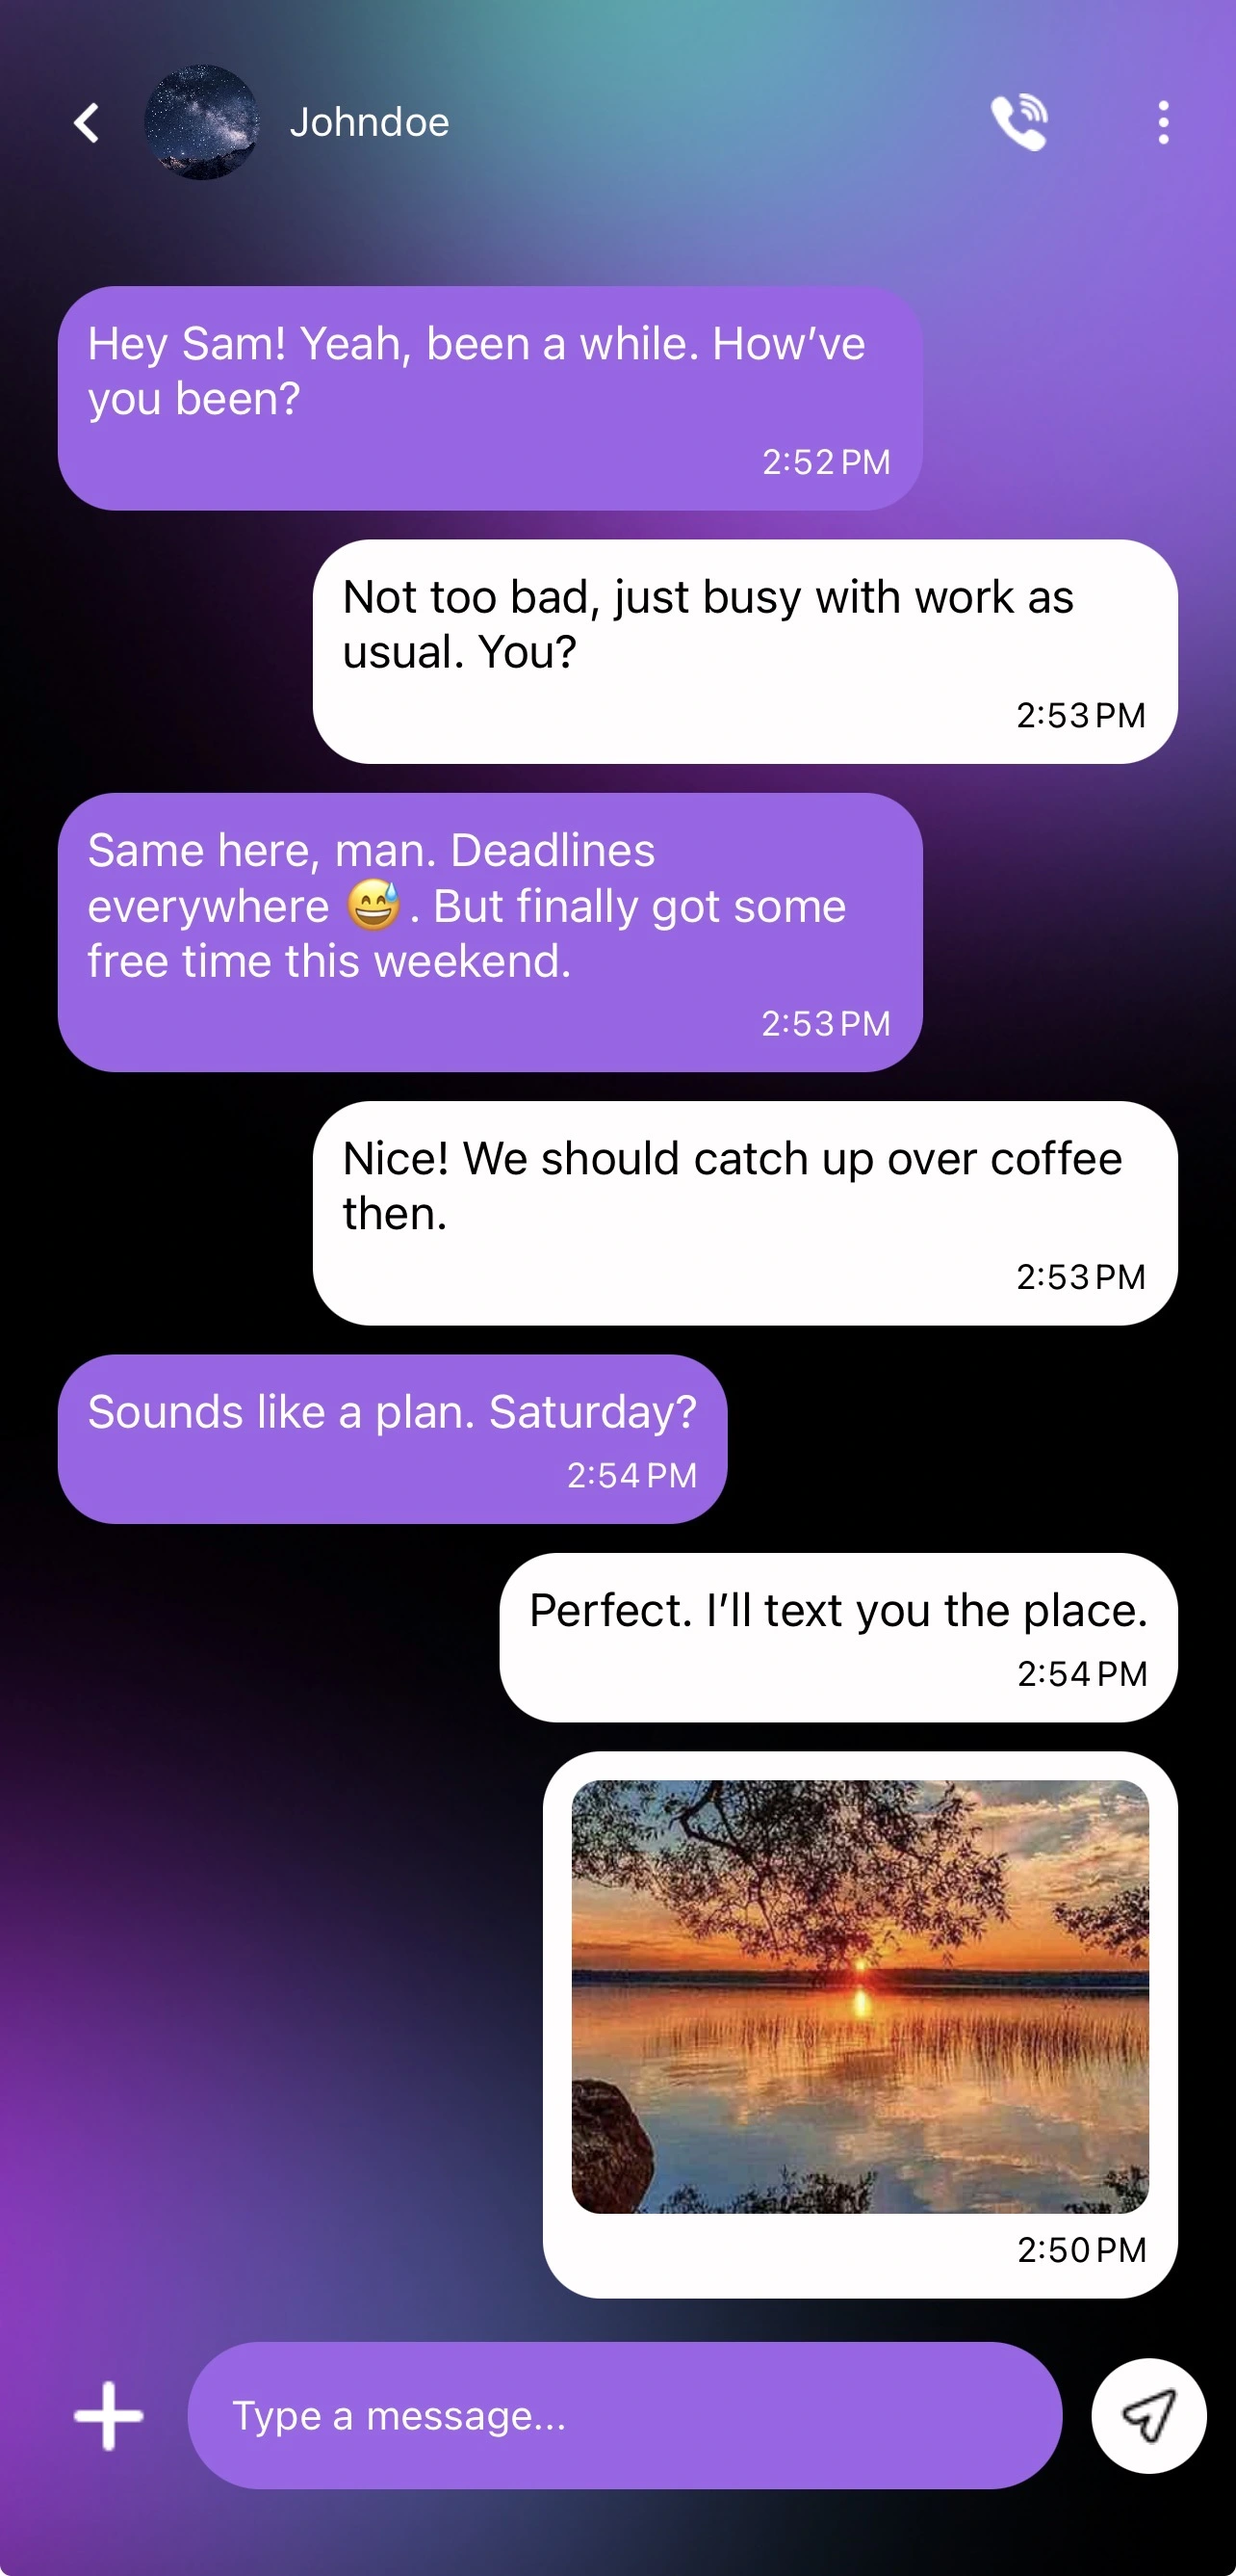
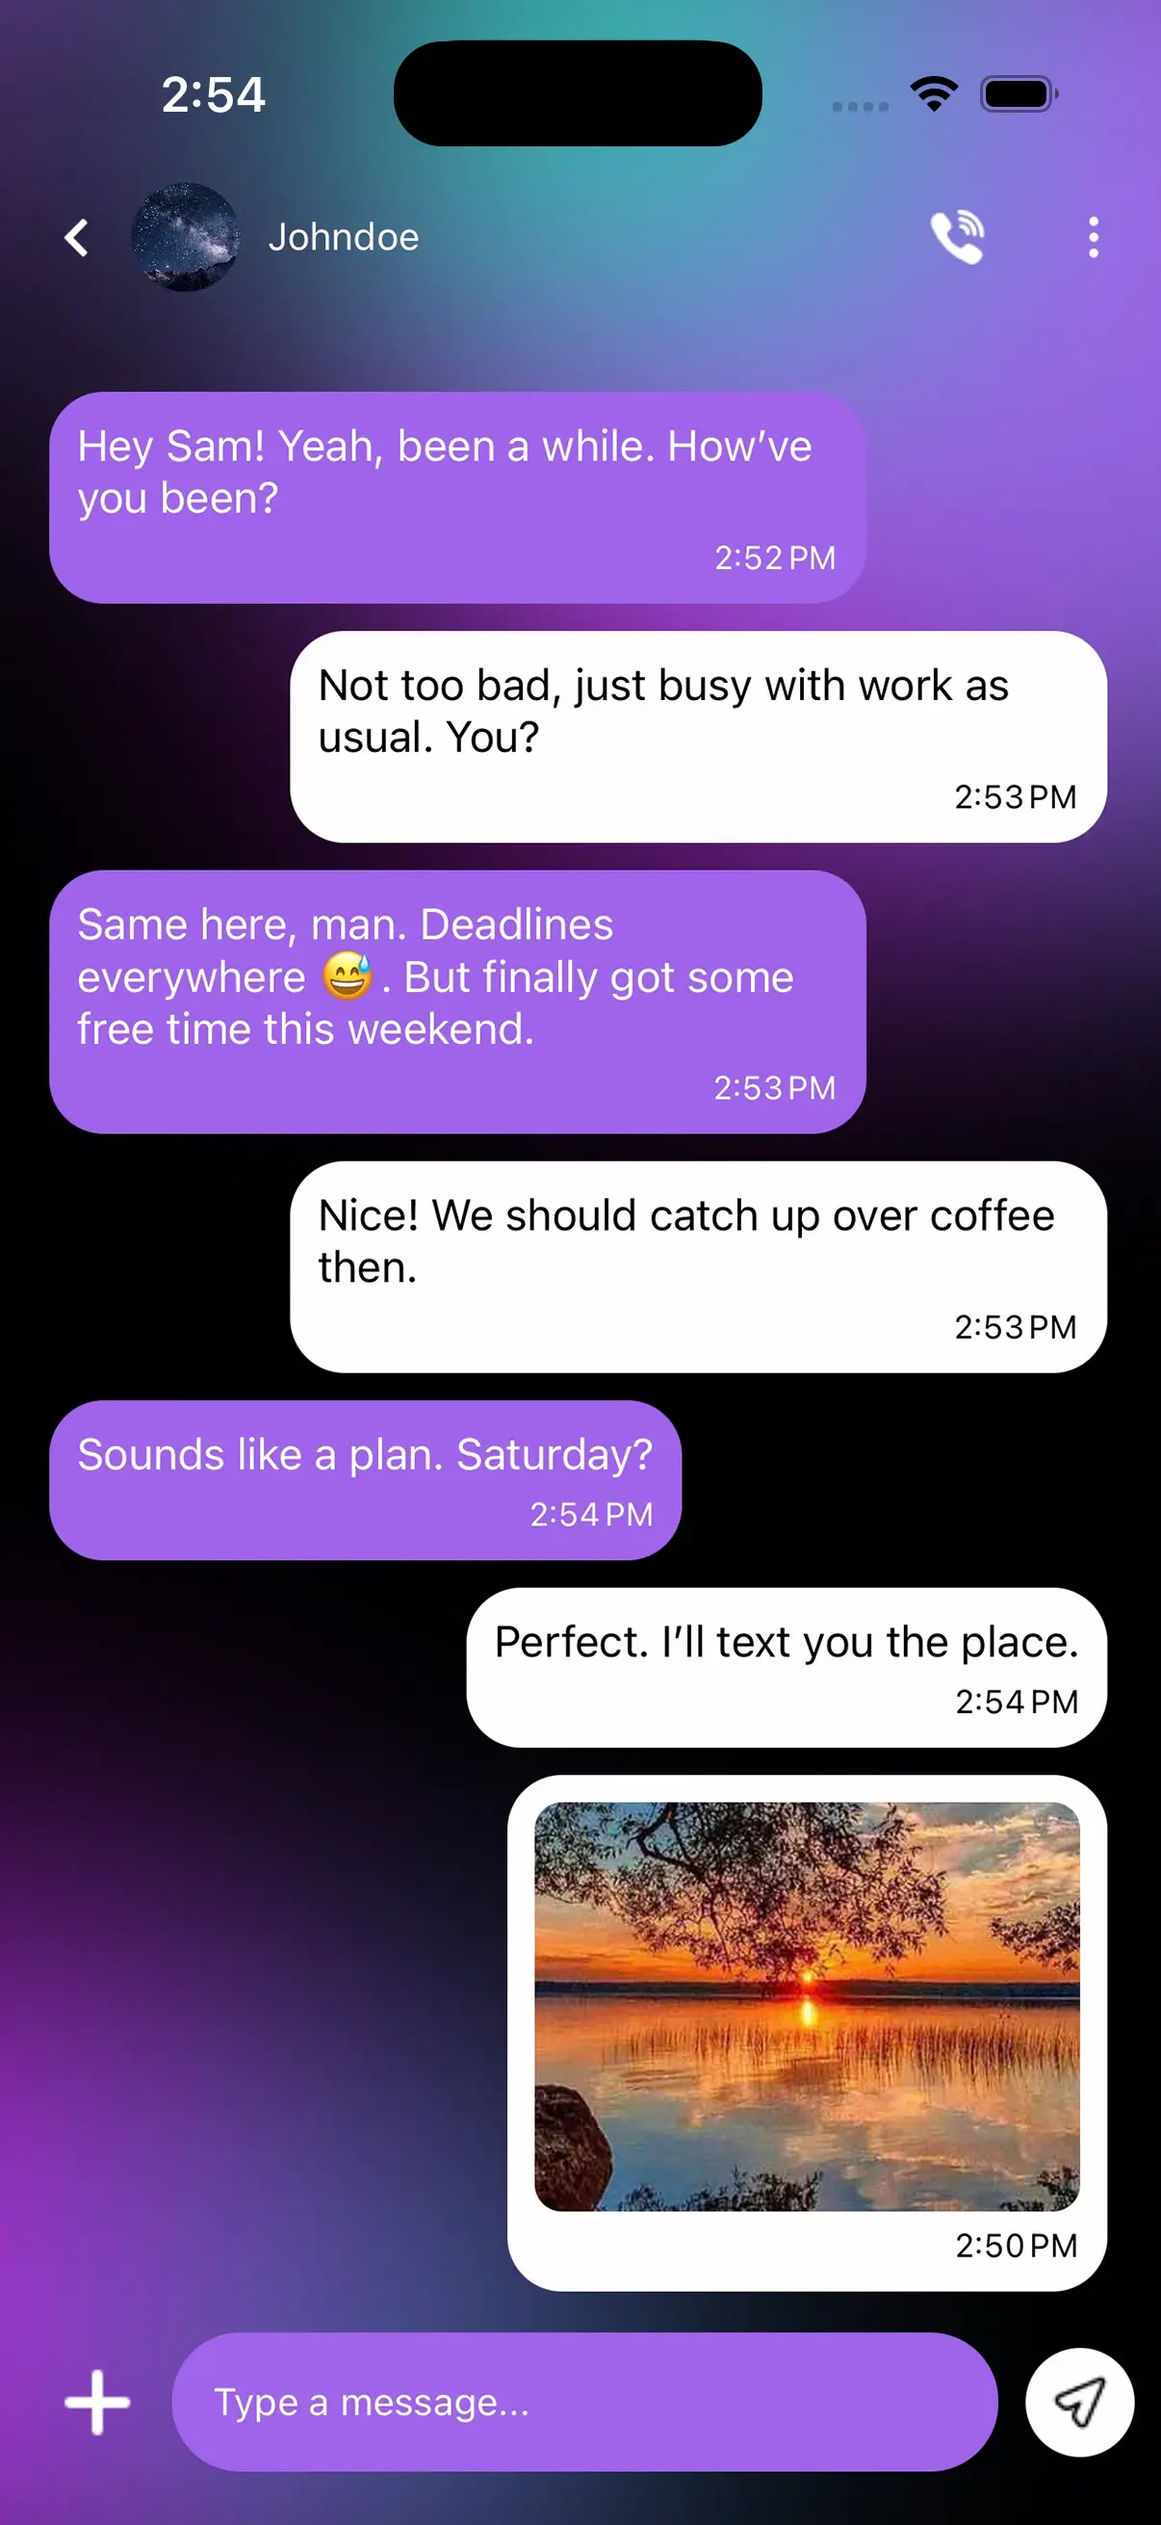
Remove commented-out Blog links from multiple HTML files to streamline navigation and improve code clarity. Update image attributes for better loading performance and consistency across the application.

diff --git a/index.html b/index.html
@@ -501,82 +501,42 @@
           <div class="showcase-preview">
             <div class="slider" aria-roledescription="carousel">
               <div class="slides" role="group" aria-label="App UI slides">
-
-                <img src="images/app_preview/Splash.webp" alt="Wibet app splash screen showing the logo"
-                  srcset="images/app_preview/Splash.webp 488w, images/app_preview/Splash.webp 976w"
-                  sizes="(max-width: 768px) 260px, 488px" loading="lazy" decoding="async" width="488" height="1062"
-                  aria-hidden="true" />
-
-                <img src="/images/app_preview/1.webp"
-                  srcset="/images/app_preview/1.webp 488w, /images/app_preview/1.webp 976w"
-                  sizes="(max-width: 768px) 260px, 488px" alt="Wibet app welcome screen introducing the platform"
-                  loading="lazy" decoding="async" width="488" height="1062" aria-hidden="true" />
-
-                <img src="images/app_preview/2.webp"
-                  srcset="images/app_preview/2.webp 488w, images/app_preview/2.webp 976w"
-                  sizes="(max-width: 768px) 260px, 488px" alt="Wibet app welcome screen introducing the platform"
+                <img src="images/app_preview/Splash.webp" alt="Wibet app splash screen showing the logo" loading="lazy"
+                  decoding="async" width="260" height="520" />
+                <img src="images/app_preview/1.webp" alt="Wibet app welcome screen introducing the platform"
                   loading="lazy" decoding="async" width="260" height="520" />
-
+                <img src="images/app_preview/2.webp" alt="Wibet app welcome screen introducing the platform"
+                  loading="lazy" decoding="async" width="260" height="520" />
                 <img src="images/app_preview/3.webp"
-                  alt="Wibet app authentication screen with login and registration options "
-                  srcset="images/app_preview/3.webp 488w, images/app_preview/3.webp 976w"
-                  sizes="(max-width: 768px) 260px, 488px" loading="lazy" decoding="async" width="488" height="1062"
-                  aria-hidden="true" />
-
+                  alt="Wibet app authentication screen with login and registration option" loading="lazy"
+                  decoding="async" width="260" height="520" />
                 <img src="images/app_preview/4.webp"
-                  alt="Wibet app create account screen with registration form and sign-up fields "
-                  srcset="images/app_preview/4.webp 488w, images/app_preview/4.webp 976w"
-                  sizes="(max-width: 768px) 260px, 488px" loading="lazy" decoding="async" width="488" height="1062"
-                  aria-hidden="true" />
-
+                  alt=" Wibet app create account screen with registration form and sign-up fields " loading="lazy"
+                  decoding="async" width="260" height="520" />
                 <img src="images/app_preview/5.webp"
-                  alt="Wibet app EULA screen with terms, scroll section, and accept checkbox "
-                  srcset="images/app_preview/5.webp 488w, images/app_preview/5.webp 976w"
-                  sizes="(max-width: 768px) 260px, 488px" loading="lazy" decoding="async" width="488" height="1062"
-                  aria-hidden="true" />
-
+                  alt="Wibet app EULA screen with terms, scroll section, and accept checkbox" loading="lazy"
+                  decoding="async" width="260" height="520" />
                 <img src="images/app_preview/6.webp"
                   alt="Wibet app login screen with email, password, forgot password link, and sign-in button"
-                  srcset="images/app_preview/6.webp 488w, images/app_preview/6.webp 976w"
-                  sizes="(max-width: 768px) 260px, 488px" loading="lazy" decoding="async" width="488" height="1062"
-                  aria-hidden="true" />
-
+                  loading="lazy" decoding="async" width="260" height="520" />
                 <img src="images/app_preview/7.webp"
-                  alt="Wibet app screen showing contact list for starting a new chat conversation "
-                  srcset="images/app_preview/7.webp 488w, images/app_preview/7.webp 976w"
-                  sizes="(max-width: 768px) 260px, 488px" loading="lazy" decoding="async" width="488" height="1062"
-                  aria-hidden="true" />
-
+                  alt="Wibet app screen showing contact list for starting a new chat conversation" loading="lazy"
+                  decoding="async" width="260" height="520" />
                 <img src="images/app_preview/8.webp"
-                  alt="Wibet app create chat screen with selected contact and start conversation option"
-                  srcset="images/app_preview/8.webp 488w, images/app_preview/8.webp 976w"
-                  sizes="(max-width: 768px) 260px, 488px" loading="lazy" decoding="async" width="488" height="1062"
-                  aria-hidden="true" />
-
+                  alt="Wibet app create chat screen with selected contact and start conversation option " loading="lazy"
+                  decoding="async" width="260" height="520" />
                 <img src="images/app_preview/9.webp"
                   alt="Wibet app group chat creation screen showing contact list to select multiple users"
-                  srcset="images/app_preview/9.webp 488w, images/app_preview/9.webp 976w"
-                  sizes="(max-width: 768px) 260px, 488px" loading="lazy" decoding="async" width="488" height="1062"
-                  aria-hidden="true" />
-
+                  loading="lazy" decoding="async" width="260" height="520" />
                 <img src="images/app_preview/10.webp"
-                  alt="Wibet app main chat section showing active conversations and message list "
-                  srcset="images/app_preview/10.webp 488w, images/app_preview/10.webp 976w"
-                  sizes="(max-width: 768px) 260px, 488px" loading="lazy" decoding="async" width="488" height="1062"
-                  aria-hidden="true" />
-
+                  alt="Wibet app main chat section showing active conversations and message list " loading="lazy"
+                  decoding="async" width="260" height="520" />
                 <img src="images/app_preview/11.webp"
-                  alt="Wibet app chat screen showing conversation messages and chat interface"
-                  srcset="images/app_preview/11.webp 488w, images/app_preview/11.webp 976w"
-                  sizes="(max-width: 768px) 260px, 488px" loading="lazy" decoding="async" width="488" height="1062"
-                  aria-hidden="true" />
-
+                  alt="Wibet app chat screen showing conversation messages and chat interface " loading="lazy"
+                  decoding="async" width="260" height="520" />
                 <img src="images/app_preview/12.webp"
                   alt="Wibet app profile page with user details, profile picture, and account settings options"
-                  srcset="images/app_preview/12.webp 488w, images/app_preview/12.webp 976w"
-                  sizes="(max-width: 768px) 260px, 488px" loading="lazy" decoding="async" width="488" height="1062"
-                  aria-hidden="true" />
-
+                  loading="lazy" decoding="async" width="260" height="520" />
               </div>
               <div class="dots" aria-hidden="true"></div>
             </div>
@@ -682,7 +642,7 @@
             aria-label="Experience secure messaging with Wibeit">
             Experience Secure Messaging with Wibeit
           </a>
-          <a class="btn primary" data-open-download-modal target="_blank" rel="noopener noreferrer" data-ripple
+          <a class="btn primary" data-open-download-modal target="_blank" rel="noopener noreferrer" href="#" data-ripple
             aria-label="Start secure messaging with Wibeit">
             Start Secure Messaging
           </a>
@@ -711,7 +671,7 @@
         </nav>
         <nav class="foot-col" aria-label="Explore">
           <h3 class="foot-col-title">Explore</h3>
-          <a href="index.html">Blog</a>
+          <!-- <a href="index.html">Blog</a> -->
           <a href="faqs.html">FAQs</a>
         </nav>
         <nav class="foot-col" aria-label="Policy">

diff --git a/in/index.html b/in/index.html
@@ -666,7 +666,7 @@
                         aria-label="Experience secure messaging with Wibeit">
                         Experience Secure Messaging with Wibeit
                     </a>
-                    <a class="btn primary" data-open-download-modal target="_blank" rel="noopener noreferrer"
+                    <a class="btn primary" data-open-download-modal target="_blank" href="#" rel="noopener noreferrer"
                         data-ripple aria-label="Start secure messaging with Wibeit">
                         Start Secure Messaging
                     </a>
@@ -695,7 +695,7 @@
                 </nav>
                 <nav class="foot-col" aria-label="Explore">
                     <h3 class="foot-col-title">Explore</h3>
-                    <a href="/in/index.html">Blog</a>
+                    <!-- <a href="/in/index.html">Blog</a> -->
                     <a href="/in/faqs.html">FAQs</a>
                     <a href="/in/whatsappalternative.html">Whatsapp alternative india</a>
                 </nav>

diff --git a/ae/index.html b/ae/index.html
@@ -675,7 +675,7 @@
                         aria-label="Experience secure messaging with Wibeit">
                         Secure Wibeit in the UAE
                     </a>
-                    <a class="btn primary" data-open-download-modal target="_blank" rel="noopener noreferrer"
+                    <a class="btn primary" data-open-download-modal target="_blank" href="#" rel="noopener noreferrer"
                         data-ripple aria-label="Start secure messaging with Wibeit">
                         Start Messaging Privately Now
                     </a>
@@ -703,7 +703,7 @@
                 </nav>
                 <nav class="foot-col" aria-label="Explore">
                     <h3 class="foot-col-title">Explore</h3>
-                    <a href="/ae/index.html">Blog</a>
+                    <!-- <a href="/ae/index.html">Blog</a> -->
                     <a href="/ae/faqs.html">FAQs</a>
                     <a href="/ae/whatsappalternative.html">Whatsapp alternative UAE</a>
                 </nav>

diff --git a/in/wibeitsecure.html b/in/wibeitsecure.html
@@ -511,7 +511,7 @@
             </nav>
             <nav class="foot-col" aria-label="Explore">
                 <h3 class="foot-col-title">Explore</h3>
-                <a href="/in/index.html">Blog</a>
+                <!-- <a href="/in/index.html">Blog</a> -->
                 <a href="/in/faqs.html">FAQs</a>
                 <a href="/in/whatsappalternative.html">Whatsapp alternative india</a>
             </nav>

diff --git a/ae/wibeitsecure.html b/ae/wibeitsecure.html
@@ -556,7 +556,7 @@
             </nav>
             <nav class="foot-col" aria-label="Explore">
                 <h3 class="foot-col-title">Explore</h3>
-                <a href="/ae/index.html">Blog</a>
+                <!-- <a href="/ae/index.html">Blog</a> -->
                 <a href="/ae/faqs.html">FAQs</a>
                 <a href="/ae/whatsappalternative.html">Whatsapp alternative UAE</a>
             </nav>

diff --git a/ae/whatsappalternative.html b/ae/whatsappalternative.html
@@ -455,7 +455,7 @@
             </nav>
             <nav class="foot-col" aria-label="Explore">
                 <h3 class="foot-col-title">Explore</h3>
-                <a href="/ae/index.html#home">Blog</a>
+                <!-- <a href="/ae/index.html#home">Blog</a> -->
                 <a href="/ae/faqs.html">FAQs</a>
                 <a href="/ae/wibeitsecure.html">wibeitsecure</a>
             </nav>

diff --git a/in/whatsappalternative.html b/in/whatsappalternative.html
@@ -457,7 +457,7 @@
             </nav>
             <nav class="foot-col" aria-label="Explore">
                 <h3 class="foot-col-title">Explore</h3>
-                <a href="/in/index.html#home">Blog</a>
+                <!-- <a href="/in/index.html#home">Blog</a> -->
                 <a href="/in/faqs.html">FAQs</a>
                 <a href="/in/wibeitsecure.html">Wibeitsecure</a>
 

diff --git a/ae/faqs.html b/ae/faqs.html
@@ -418,7 +418,7 @@
         </nav>
         <nav class="foot-col" aria-label="Explore">
             <h3 class="foot-col-title">Explore</h3>
-            <a href="/ae/index.html">Blog</a>
+            <!-- <a href="/ae/index.html">Blog</a> -->
             <a href="/ae/faqs.html">FAQs</a>
             <a href="/ae/whatsappalternative.html">Whatsapp alternative UAE</a>
         </nav>

diff --git a/wibeitsecure.html b/wibeitsecure.html
@@ -498,7 +498,7 @@
             </nav>
             <nav class="foot-col" aria-label="Explore">
                 <h3 class="foot-col-title">Explore</h3>
-                <a href="index.html">Blog</a>
+                <!-- <a href="index.html">Blog</a> -->
                 <a href="faqs.html">FAQs</a>
             </nav>
             <nav class="foot-col" aria-label="Policy">

diff --git a/in/404.html b/in/404.html
@@ -168,7 +168,7 @@
       </nav>
       <nav class="foot-col" aria-label="Explore">
         <h3 class="foot-col-title">Explore</h3>
-        <a href="/in/index.html">Blog</a>
+        <!-- <a href="/in/index.html">Blog</a> -->
         <a href="/in/faqs.html">FAQs</a>
         <a href="/in/whatsappalternative.html">Whatsapp alternative india</a>
       </nav>

diff --git a/in/about.html b/in/about.html
@@ -242,7 +242,7 @@
       </nav>
       <nav class="foot-col" aria-label="Explore">
         <h3 class="foot-col-title">Explore</h3>
-        <a href="/in/index.html">Blog</a>
+        <!-- <a href="/in/index.html">Blog</a> -->
         <a href="/in/faqs.html">FAQs</a>
         <a href="/in/whatsappalternative.html">Whatsapp alternative india</a>
       </nav>

diff --git a/in/child_policy.html b/in/child_policy.html
@@ -210,7 +210,7 @@
       </nav>
       <nav class="foot-col" aria-label="Explore">
         <h3 class="foot-col-title">Explore</h3>
-        <a href="/in/index.html">Blog</a>
+        <!-- <a href="/in/index.html">Blog</a> -->
         <a href="/in/faqs.html">FAQs</a>
         <a href="/in/whatsappalternative.html">Whatsapp alternative india</a>
       </nav>
